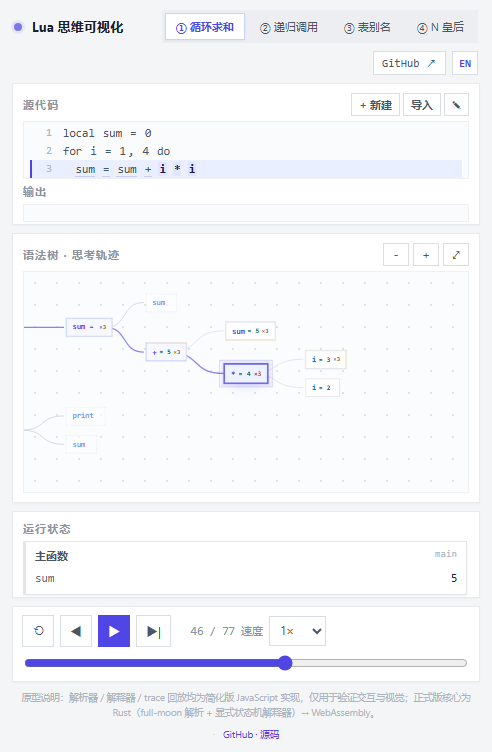
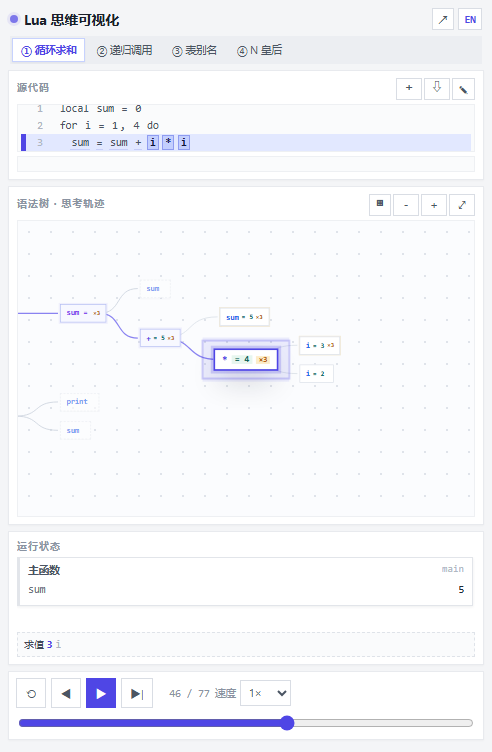
feat(mobile): compact phone layout
- header: brand + GitHub icon + lang only; sample chips single-row horizontal scroll
- code toolbar collapses to + / import / edit icons; output spacing tightened
- runtime pane on phone shows only the current frame + 'N more frames' summary
- stage rebalanced so the tree keeps ~half the screen; footer hidden on phones
- layout button shows icon only on phones; compact layout limited to <=520px
- refresh phone/tablet screenshots and QA notes

diff --git a/style.css b/style.css
@@ -372,3 +372,80 @@ a.tbtn{display:inline-flex;align-items:center;justify-content:center;text-decora
 @media (max-width:520px){
   .tree-tools .tbtn.wide{padding:0 5px;font-size:10px}
 }
+
+/* ======================================================================
+   手机端紧凑布局（≤520px）
+   目标：减少界面“零碎”，把屏幕高度让给语法树；操作入口改为图标/横滚。
+   ====================================================================== */
+.repo-mini{display:none}
+
+@media (max-width:520px){
+  body{font-size:12px}
+  .app{padding:8px 8px calc(6px + env(safe-area-inset-bottom));gap:6px}
+  .topbar{gap:6px;align-items:center;flex-wrap:wrap;row-gap:5px}
+  .brand{gap:6px}
+  .brand h1{font-size:13.5px}
+  .tag{display:none}
+
+  /* 示例标签：单行横向滚动，不再换行占两行 */
+  .programs{order:3;flex:1 0 100%;margin-top:1px;padding:2px;gap:2px;
+    flex-wrap:nowrap;overflow-x:auto;overflow-y:hidden;scrollbar-width:none;-webkit-overflow-scrolling:touch}
+  .programs::-webkit-scrollbar{display:none}
+  .chip{padding:4px 8px;font-size:10.5px;white-space:nowrap}
+
+  /* 顶部右侧动作：只留图标 */
+  .top-actions{order:2;gap:4px;margin-left:auto}
+  .top-actions .tbtn{height:22px;min-width:22px;padding:0 6px}
+  .top-actions a.tbtn.repo{padding:0}
+  .top-actions a.tbtn.repo .repo-text{display:none}
+  .top-actions a.tbtn.repo .repo-mini{display:inline;font-size:13px}
+  .top-actions .tbtn.lang{min-width:24px;padding:0 5px;font-size:10.5px}
+
+  /* 屏幕高度重新分配：树占大头 */
+  .stage{grid-template-rows:minmax(0,.62fr) minmax(0,1.92fr) minmax(0,.76fr);gap:6px}
+  .pane{padding:7px 8px}
+  .pane-head{margin-bottom:4px;gap:6px}
+  .pane-head h2{font-size:10px}
+
+  /* 代码工具栏：＋ 新建 / 导入 收成图标，✎ 保留 */
+  .pane-tools{gap:2px}
+  .pane-tools .tbtn{height:22px;min-width:22px;padding:0 5px;font-size:11px}
+  .pane-tools .tbtn.text{width:22px;padding:0;font-size:0}
+  .pane-tools .tbtn.text::before{content:attr(data-icon);font-size:12px;font-family:var(--mono)}
+  .pane-tools .tbtn.run{height:22px;padding:0 6px;font-size:10.5px}
+  .code-wrap{min-height:40px}
+  .app{--code-fs:10.5px;--code-lh:17px}
+  .code{padding:5px 3px}
+  .ln{font-size:9px;margin-right:6px}
+  .io-head{display:none}
+  .output{max-height:30px;min-height:16px;font-size:10px;margin-top:4px;padding:2px 6px}
+  .code-error{max-height:34px;font-size:9.5px}
+
+  /* 树工具栏：布局按钮只显示 ▦ / ◉ */
+  .tree-tools{gap:2px}
+  .tree-tools .tbtn{height:22px;min-width:22px;padding:0 4px;font-size:11px}
+  .tree-tools .tbtn.wide{min-width:22px;padding:0 4px;font-size:0}
+  .tree-tools .tbtn.wide::before{content:attr(data-icon);font-size:12px;font-family:var(--mono)}
+  .tree-viewport{min-height:120px}
+
+  /* 状态栏：只显示当前栈帧 + 一行“另有 N 层” */
+  .state-pane .hint{display:none}
+  .frames{gap:5px}
+  .frame{padding:5px 8px}
+  .frame h3{font-size:10.5px;margin-bottom:3px}
+  .var{font-size:10.5px;padding:1px 0}
+  .frames-more{font-size:10px;color:var(--muted);padding:0 2px}
+  .frames{min-height:0}
+  .stepmeta{margin-top:5px;padding-top:5px}
+  .step-label{font-size:10px;min-height:22px;padding:3px 6px;line-height:16px;white-space:nowrap;overflow:hidden;text-overflow:ellipsis}
+
+  /* 控制栏压缩，脚注在小屏隐藏（GitHub 入口保留在顶栏） */
+  .controls{gap:5px;padding:6px 7px}
+  .btn{height:30px;min-width:30px;padding:0 8px;font-size:11px}
+  .btn.primary{font-size:11px}
+  .scrub{min-width:70px;order:9;flex-basis:100%;height:16px}
+  .counter{min-width:52px;font-size:10.5px}
+  .speed-wrap{font-size:10.5px;gap:4px}
+  #speed{height:26px;font-size:10.5px;padding:0 4px}
+  .footnote{display:none}
+}

diff --git a/app.js b/app.js
@@ -1013,6 +1013,7 @@ const I18N = {
     'frame.mainTag': 'main',
     'frame.idx': '栈帧 #{n}',
     'noLocals': '（暂无局部变量）',
+    'frames.more': '另有 {n} 层调用栈',
     'ready': '准备执行…',
     'ev.enter': '进入 <b>{kind}</b>',
     'ev.finish': '完成 <b>{kind}</b>',
@@ -1079,6 +1080,7 @@ const I18N = {
     'frame.mainTag': 'main',
     'frame.idx': 'frame #{n}',
     'noLocals': '(no locals yet)',
+    'frames.more': '{n} more frame(s)',
     'ready': 'ready…',
     'ev.enter': 'enter <b>{kind}</b>',
     'ev.finish': 'finish <b>{kind}</b>',
@@ -1120,6 +1122,21 @@ function writeSavedLang(lang) {
   try { localStorage.setItem(LANG_LS_KEY, lang); } catch (err) { /* noop */ }
 }
 
+function isCompactUI() {
+  return typeof window !== 'undefined' && window.matchMedia &&
+    window.matchMedia('(max-width:520px)').matches;
+}
+
+/* 手机端布局按钮只显示图标，把宽度留给缩放控件 */
+function updateLayoutButton() {
+  const btn = $('#btnLayout');
+  if (!btn) return;
+  const icon = app.layoutMode === 'neuron' ? '◉' : '▦';
+  btn.dataset.icon = icon;
+  btn.title = t('btn.layout');
+  btn.textContent = isCompactUI() ? icon : (app.layoutMode === 'neuron' ? t('layout.neuron') : t('layout.grid'));
+}
+
 function applyI18n() {
   document.documentElement.lang = app.lang === 'en' ? 'en' : 'zh-CN';
   document.title = t('doc.title');
@@ -1149,11 +1166,7 @@ function applyI18n() {
       if (el) el.title = kindName(nd.k) + '  [' + nd.span[0] + '..' + nd.span[1] + ']';
     }
   }
-  const layoutBtn = $('#btnLayout');
-  if (layoutBtn) {
-    layoutBtn.textContent = app.layoutMode === 'neuron' ? t('layout.neuron') : t('layout.grid');
-    layoutBtn.title = t('btn.layout');
-  }
+  updateLayoutButton();
   const stepLabel = $('#steplabel');
   if (stepLabel && !app.trace) stepLabel.textContent = t('ready');
 }
@@ -1811,7 +1824,10 @@ function valueHTML(v) {
 function renderFrames(st, nf) {
   const el = $('#frames');
   el.innerHTML = '';
-  for (let i = nf - 1; i >= 0; i--) {
+  const compact = isCompactUI();
+  /* 手机端只展示最内层栈帧，其余折叠成一行摘要，避免状态栏拥挤 */
+  const from = compact ? nf - 1 : 0;
+  for (let i = nf - 1; i >= from; i--) {
     const fr = st.framesView[i];
     const color = PALETTE[i % PALETTE.length];
     const box = document.createElement('div');
@@ -1831,7 +1847,7 @@ function renderFrames(st, nf) {
     } else {
       let count = 0;
       for (const [name, v] of fr.vars) {
-        if (count++ >= 8) break;
+        if (count++ >= (compact ? 4 : 8)) break;
         const row = document.createElement('div');
         row.className = 'var';
         row.innerHTML = '<span class="k">' + esc(name) + '</span><span class="v">' + valueHTML(v) + '</span>';
@@ -1839,6 +1855,12 @@ function renderFrames(st, nf) {
       }
     }
     el.appendChild(box);
+  }
+  if (compact && nf > 1) {
+    const more = document.createElement('div');
+    more.className = 'frames-more';
+    more.textContent = t('frames.more', { n: nf - 1 });
+    el.appendChild(more);
   }
 }
 
@@ -2298,6 +2320,8 @@ function bindControls() {
   });
 
   window.addEventListener('resize', () => {
+    updateLayoutButton();
+    if (app.state) renderFrames(app.state, app.state.framesView.length);
     if (app.editing) return;
     if (!app.userPanned) fitTree();
     else followTo(app.curId != null ? app.curId : (app.ast && app.ast.id));

diff --git a/index.html b/index.html
@@ -30,7 +30,7 @@
     </div>
     <div class="top-actions">
       <a id="repoLink" class="tbtn repo" href="https://github.com/ONGIKAN/lua-mindscape" target="_blank" rel="noopener"
-         title="在 GitHub 上查看源码 / View source on GitHub" aria-label="GitHub repository">GitHub ↗</a>
+         title="在 GitHub 上查看源码 / View source on GitHub" aria-label="GitHub repository"><span class="repo-text">GitHub ↗</span><span class="repo-mini" aria-hidden="true">↗</span></a>
       <button id="btnLang" class="tbtn lang" data-i18n-title="btn.lang" title="切换语言 / Switch language">EN</button>
       <button id="btnInstall" class="tbtn install" data-i18n-title="btn.install.title" title="安装到桌面 / 主屏幕">⤓</button>
     </div>
@@ -42,11 +42,11 @@
         <h2 data-i18n="pane.code">源代码</h2>
         <span class="hint" id="codeHint">点击代码即可编辑 · 靛蓝 = 正在求值 · 琥珀 = 外层栈帧</span>
         <div class="pane-tools">
-          <button id="btnNew" class="tbtn text" data-i18n="btn.newText" data-i18n-title="btn.new" title="新建代码">+ 新建</button>
-          <button id="btnImport" class="tbtn text" data-i18n="btn.importText" data-i18n-title="btn.import" title="导入 Lua 文件">导入</button>
+          <button id="btnNew" class="tbtn text" data-i18n="btn.newText" data-i18n-title="btn.new" title="新建代码" data-icon="＋">+ 新建</button>
+          <button id="btnImport" class="tbtn text" data-i18n="btn.importText" data-i18n-title="btn.import" title="导入 Lua 文件" data-icon="⇩">导入</button>
           <button id="btnEdit" class="tbtn" data-i18n-title="btn.edit" title="编辑代码">✎</button>
           <button id="btnRun" class="tbtn run" data-i18n-title="btn.editRun" title="运行 (Ctrl+Enter)" hidden>▶ 运行</button>
-          <button id="btnRestore" class="tbtn" data-i18n-title="btn.restore" title="恢复示例代码" hidden>↺ 示例</button>
+          <button id="btnRestore" class="tbtn" data-i18n-title="btn.restore" title="恢复示例代码" data-icon="↺" hidden>↺ 示例</button>
           <button id="btnCancel" class="tbtn" data-i18n-title="btn.cancel" title="取消编辑 (Esc)" hidden>✕</button>
         </div>
       </div>

diff --git a/README.md b/README.md
@@ -183,6 +183,9 @@ lua-brain-proto/
 - 相机稳定性：1666px 宽度下整树自动适配为 0.94 倍并完整可见；在 77 个连续事件里相机位置变化 **0 次**（上一版 31 步内 6 次平移）。树尺寸从 1201×675 压缩到 **802×394**（loop 示例，约 -33%）；
 - 两种树布局均通过：规整 `▦`、神经元 `◉` 均 0 异常；神经元模式经节点斥力松弛后相邻节点不再重叠，英文按钮为 `◉ Neuron`，手机 390×844 正常缩放，选择写入 localStorage 后刷新保持，`?layout=neuron` 可直接进入；
 - 强高亮：当前节点放大 + 加粗描边 + 外圈光晕 + 数值胶囊，规整 / 神经元、桌面 / 手机均生效；
+- 手机端（≤520px）紧凑布局：顶部只留品牌 + GitHub 图标 + 语言按钮，示例标签单行横向滚动；
+  代码工具栏收成 `＋ / ⇩ / ✎` 图标；状态栏只显示当前栈帧、其余折叠为「另有 N 层调用栈」；
+  树面板独占约一半屏高，页脚隐藏；390×844 实测无裁切、0 异常；
 - 中英双语：`?lang=en` 下标题 / 品牌 / 提示 / 栈帧文案全部切换，`EN / 中` 按钮可即时切换并记住选择；
 - PWA：manifest 与 Service Worker 注册成功，可安装、离线打开。
 

diff --git a/README.en.md b/README.en.md
@@ -191,6 +191,10 @@ Verified in a real browser with `tools/qa.mjs` (headless Edge + Chrome DevTools 
   the choice persists in localStorage and `?layout=neuron` enters it directly;
 - Stronger highlight: active node scaled up + thicker outline + outer halo + value chips,
   in both layouts and on mobile;
+- Phone (≤520px) compact layout: header keeps only brand + GitHub icon + language toggle, sample chips
+  scroll horizontally; the code toolbar collapses to `+ / ⤓ / ✎` icons; the state pane shows only the
+  current frame plus an "N more frames" line; the tree pane takes about half the screen and the footer
+  is hidden; verified at 390×844 with no clipping and 0 exceptions;
 - No exceptions, no console errors; scrubbing, stepping, node-jump and sample switching all pass;
 - Code editing: custom code `local x = 5 / print(x * 2)` runs (19 trace events), parse errors are inline;
   pasting the whole N-Queens program also runs;
